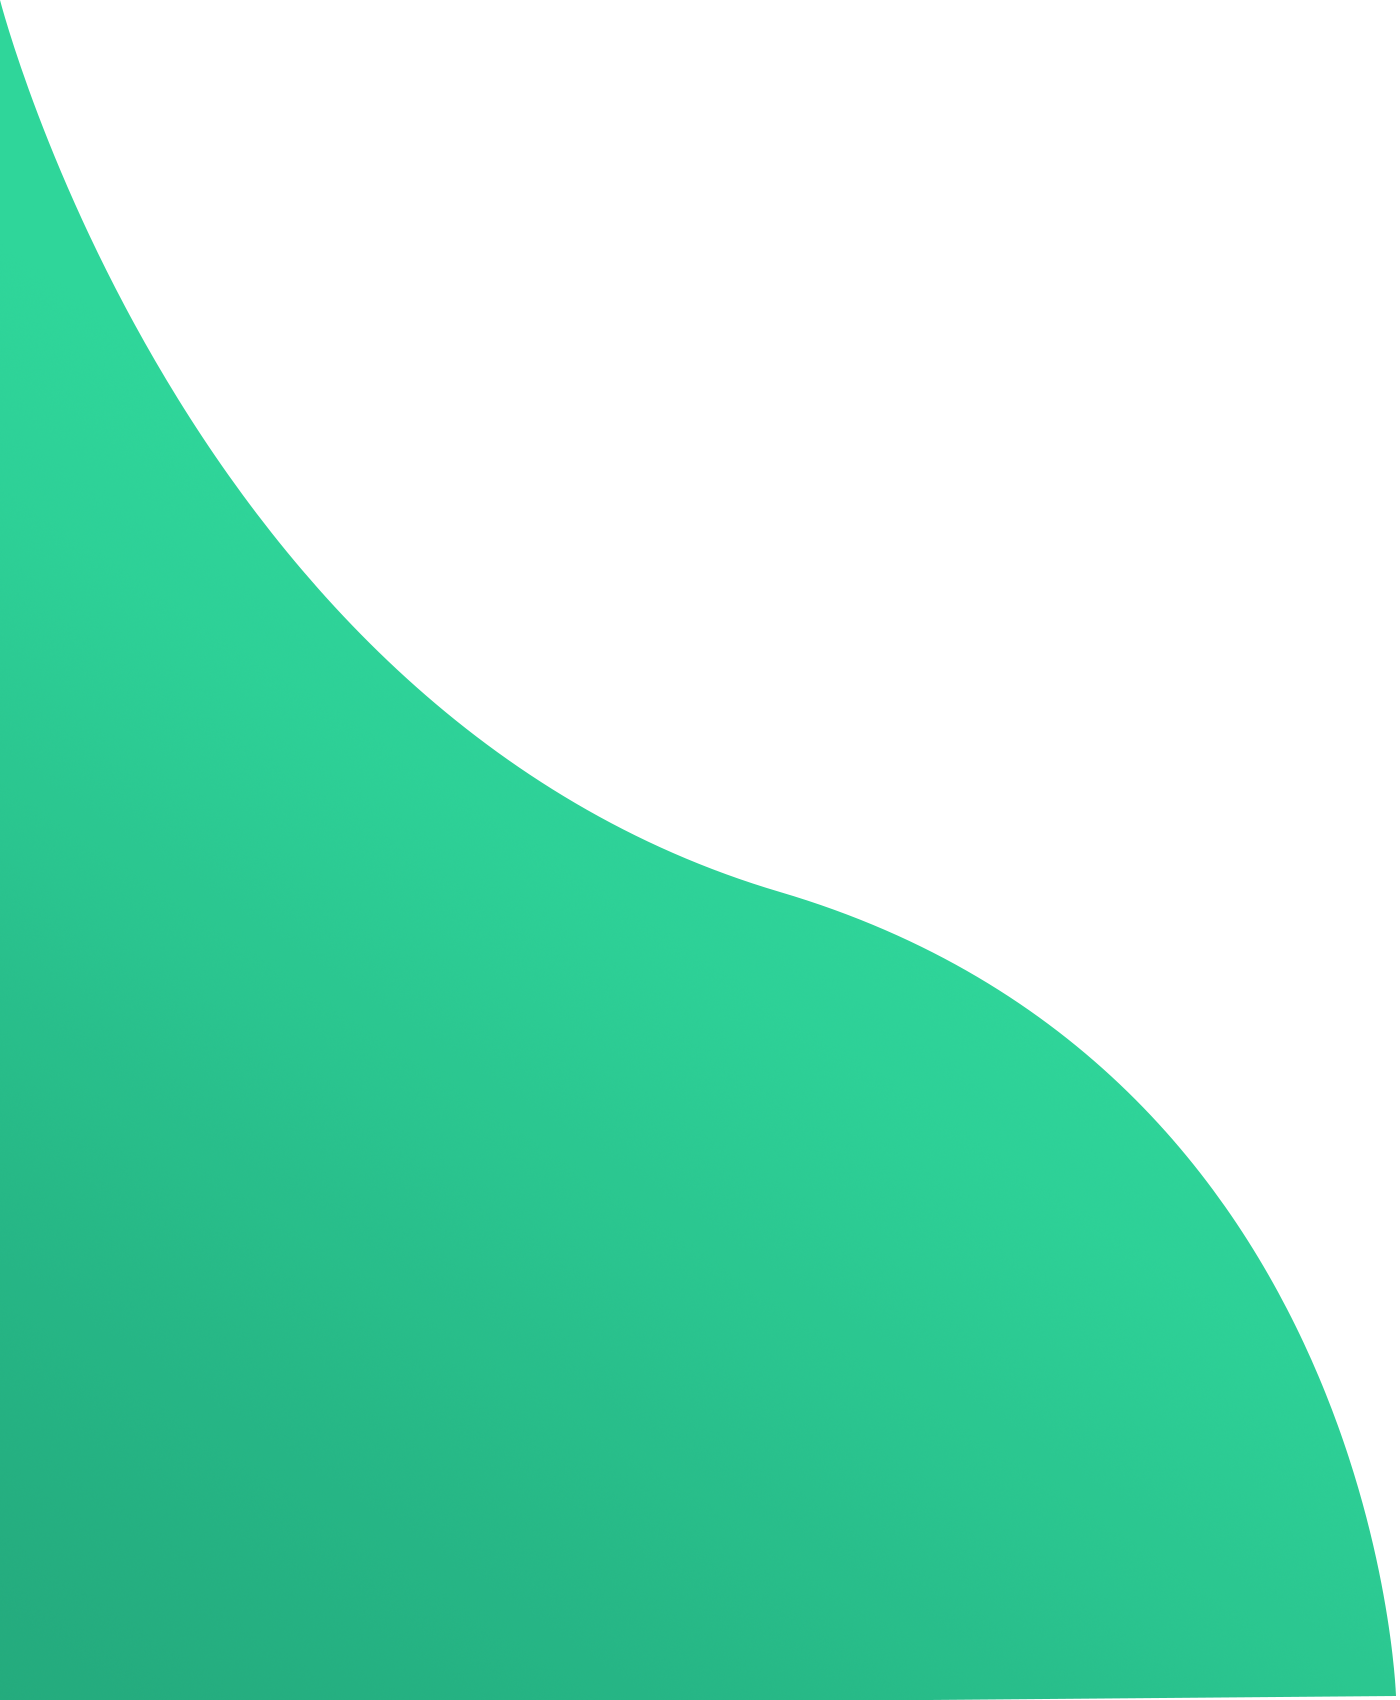
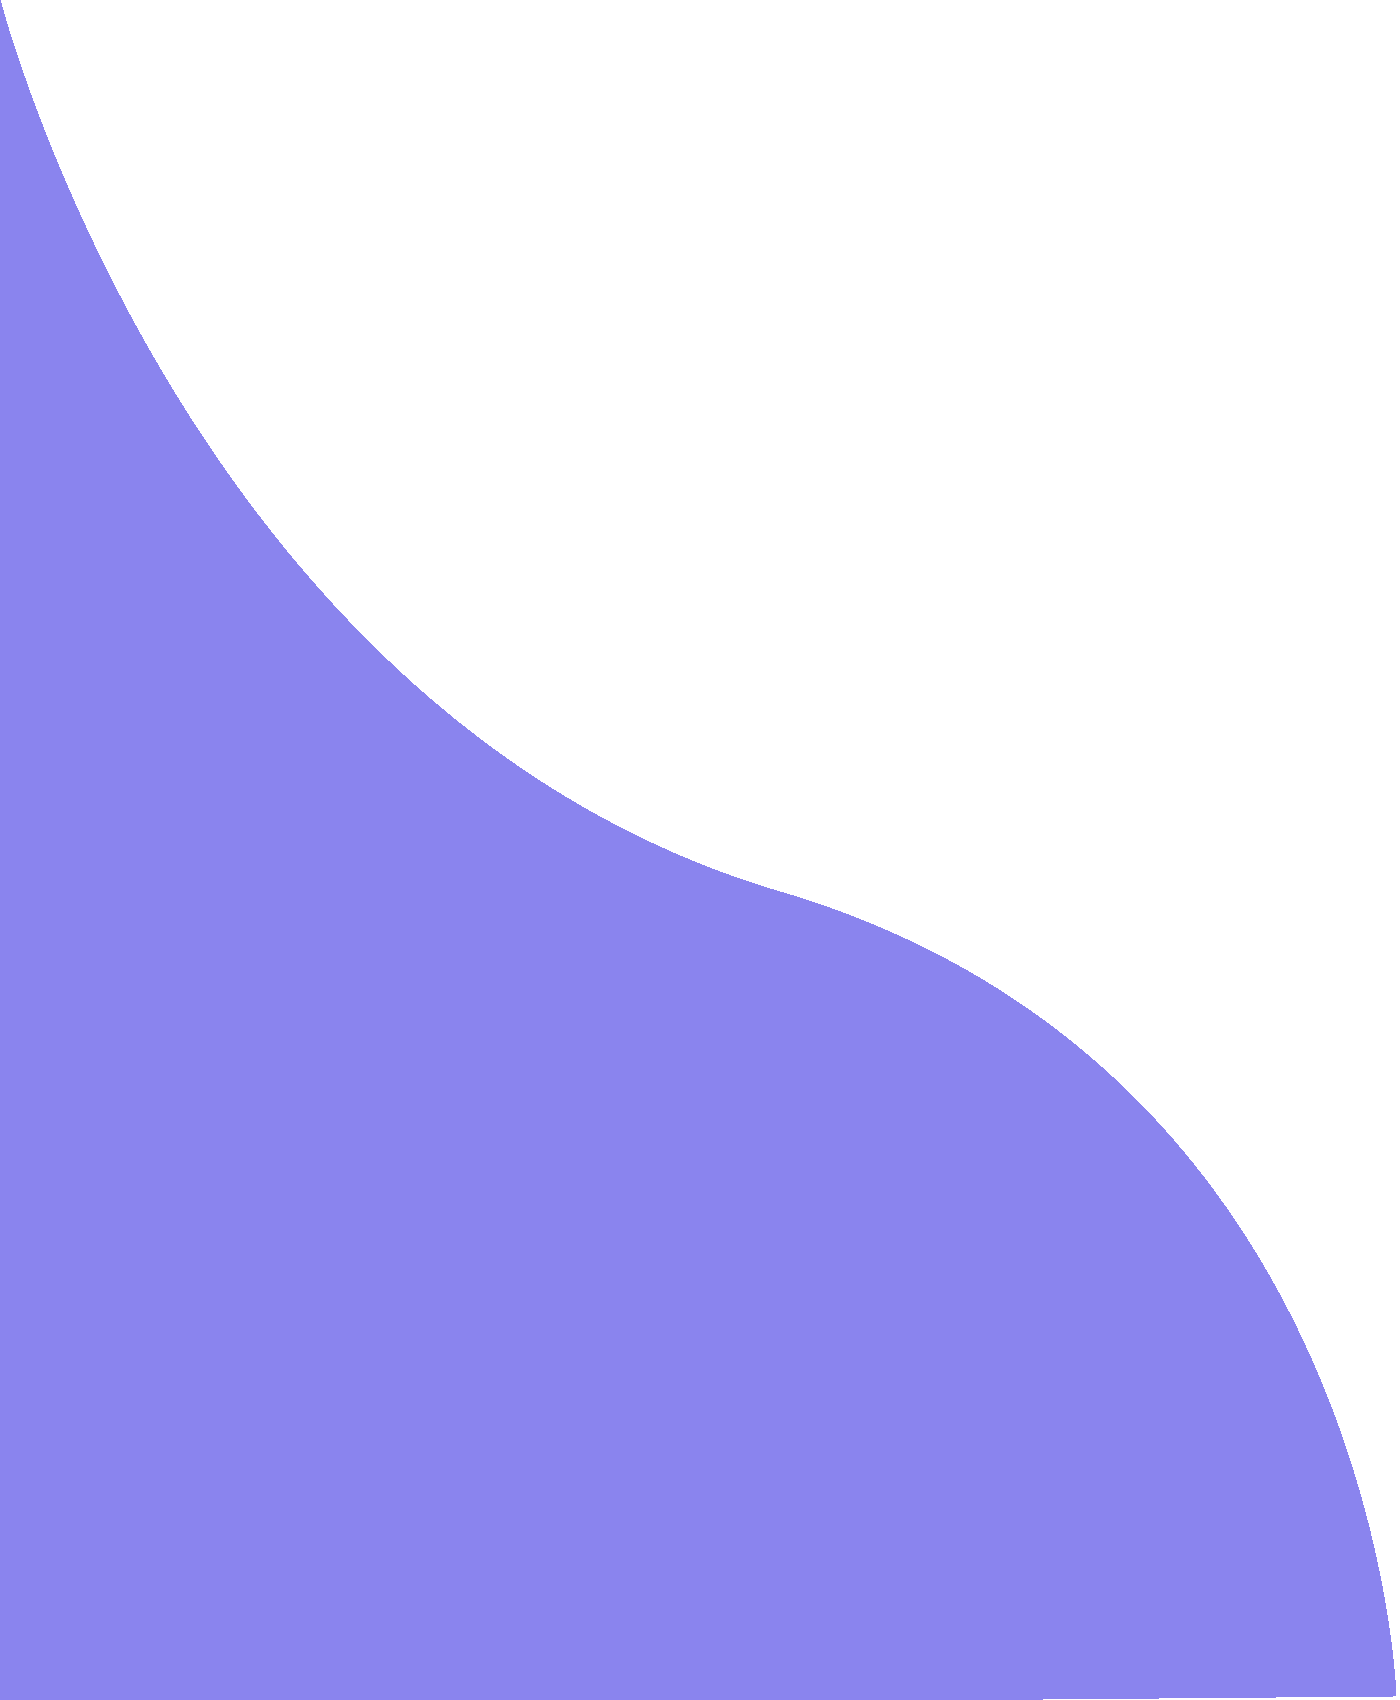
Style: ganti tema pada halaman login user

diff --git a/Source Code/OliveMedika/resources/views/auth/user/style.blade.php b/Source Code/OliveMedika/resources/views/auth/user/style.blade.php
@@ -168,7 +168,7 @@ a:hover{
 	border-radius: 25px;
 	outline: none;
 	border: none;
-	background-image: linear-gradient(to right, #32be8f, #38d39f, #32be8f);
+	background-image: linear-gradient(to right, #5950f6, #534af6, #6c63ff);
 	background-size: 200%;
 	font-size: 1.2rem;
 	color: #fff;
